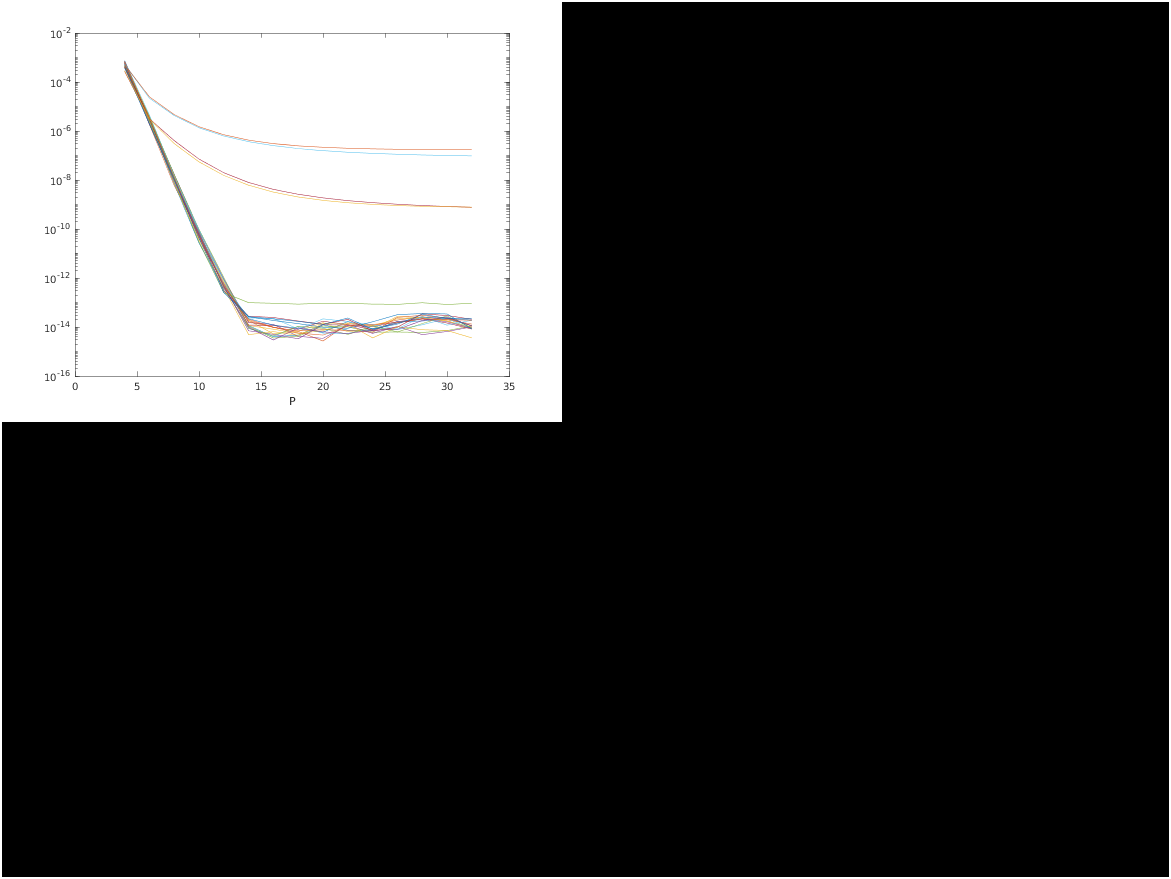
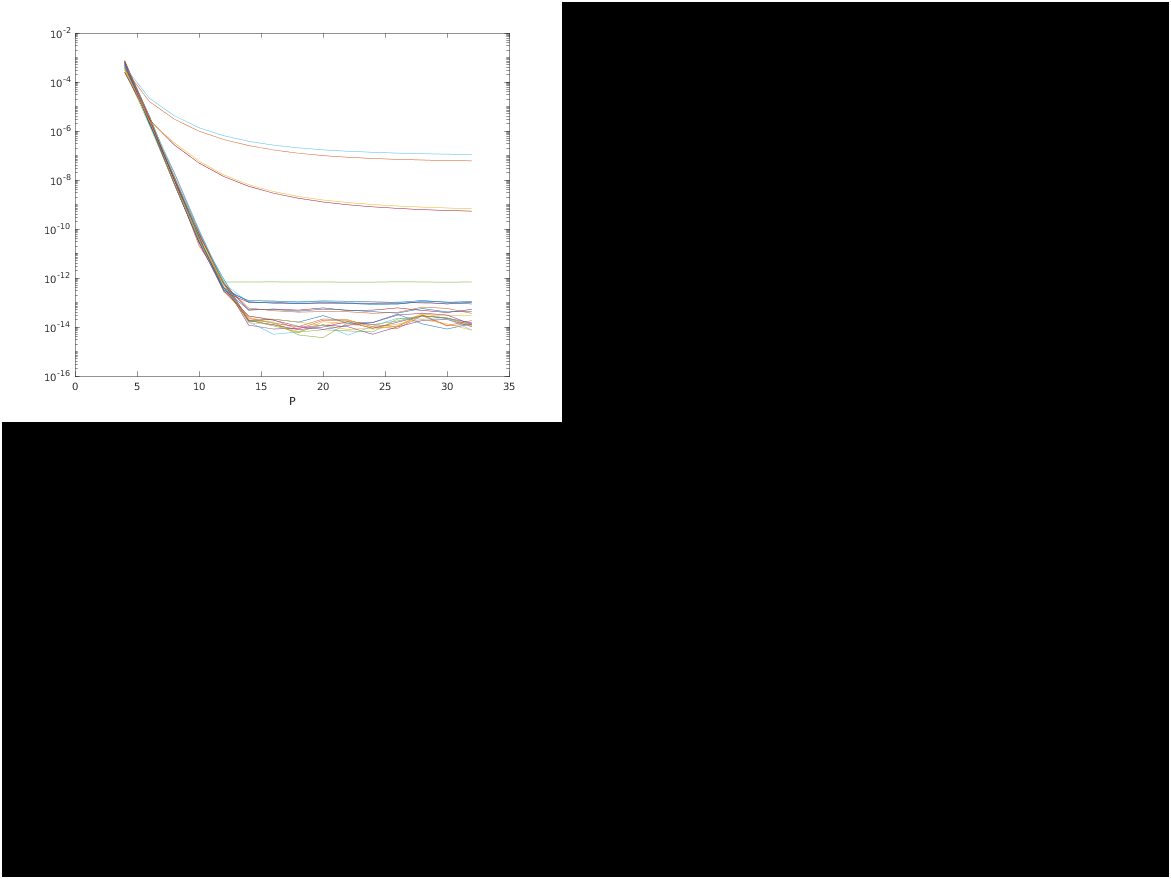
imgs

diff --git a/SE_Stokes_run/SE3P_Stokes/xiLM_balance.m b/SE_Stokes_run/SE3P_Stokes/xiLM_balance.m
@@ -43,7 +43,7 @@ est = @(M,xi,L,f) sqrt(f)*(xi^3*L^2/(pi^4*(M/2)^(3/2)))*exp(-(pi*(M/2)/(xi*L))^2
 e_vec = [];
 
 xx = [5,8,10,20];
-LL = [1,0.5];
+LL = [2,1];
 for xi = xx
     opt.xi = xi;
     for L = LL
